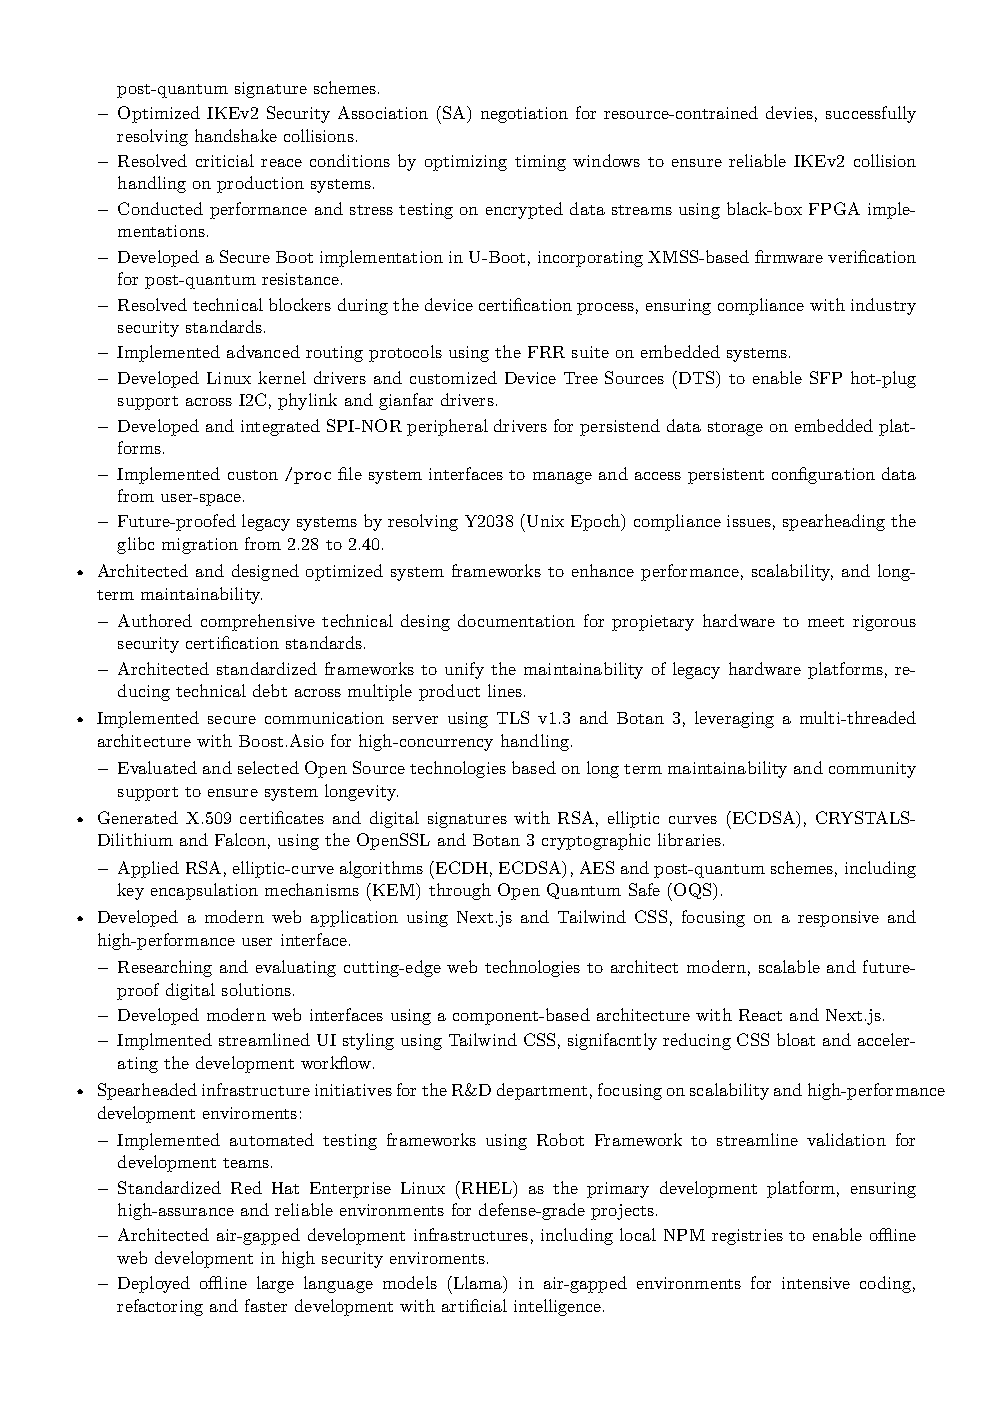
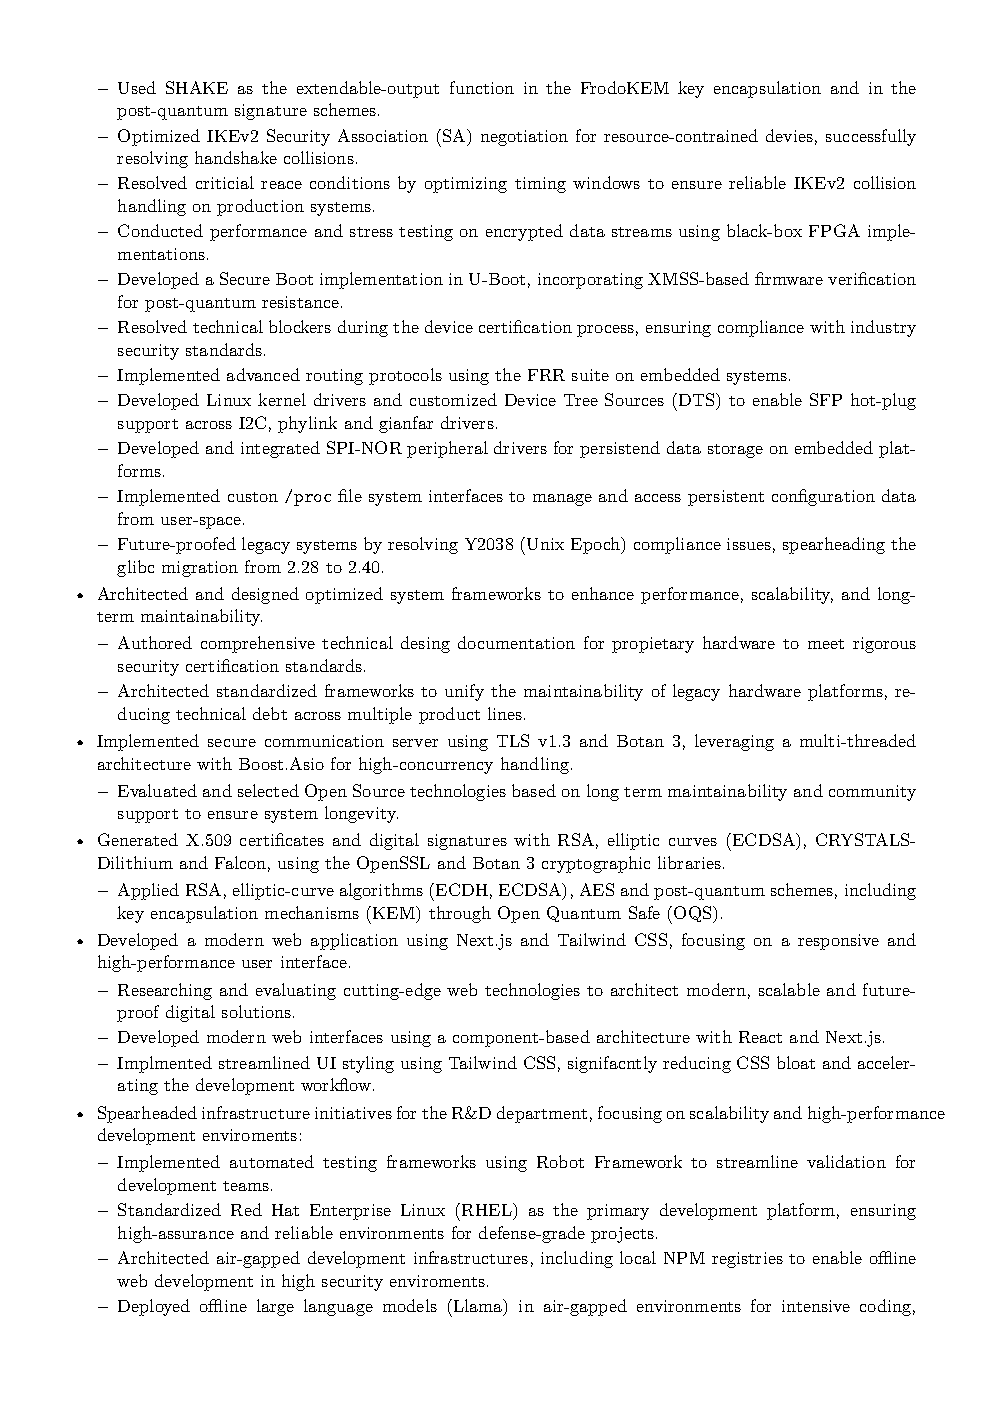
Add the Indra FHE proof of concept for client-data privacy.

Changed region(s): [[0.0938, 0.0613, 0.9375, 0.9501], [0.875, 0.8582, 0.9062, 0.9195]]

diff --git a/CV_FJGMS_INDRA.tex b/CV_FJGMS_INDRA.tex
@@ -104,6 +104,7 @@ Date of birth: 03/05/1991
 
 \begin{job}{Indra}{March 2026 -- April 2026}{Cryptographic Product Definition Engineer}
   \item Cryptography with fully homomorphic encryption (FHE), quantum random number generators (QRNG) and physical unclonable functions (PUF).
+  \item Proof of concept of fully homomorphic encryption (FHE) for data privacy, with homomorphic processing that keeps client data private.
   \item Definition of product specifications for cryptographic products in the FCAS project, the European sixth-generation fighter.
   \item Study and development with Kubernetes as part of the company training.
   \item Proof of concept of mTLS with the Python C-API and OpenSSL for cryptographic test environments.
